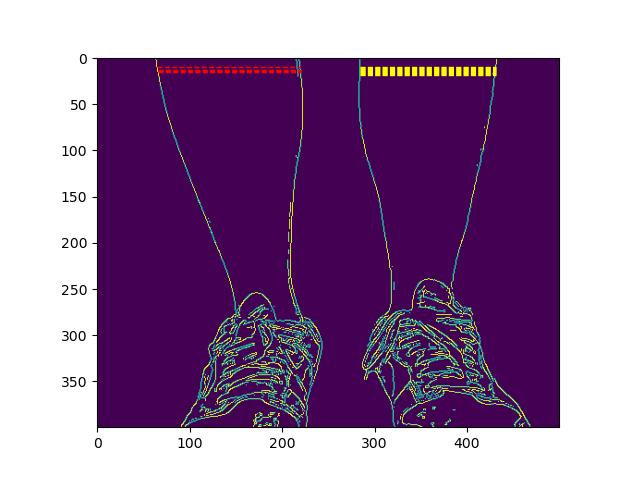
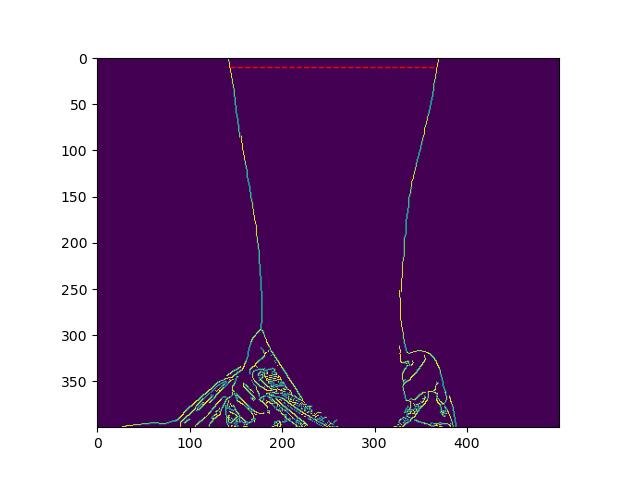
add side progress

diff --git a/app.py b/app.py
@@ -24,8 +24,8 @@ st.set_page_config(
 
 # sidebar
 with st.sidebar:
-    choose = option_menu("Calf Program", ["Leg Image Processing", "Regression Model", "Guide"],
-                         icons=['person-circle', 'cpu', 'paperclip'],
+    choose = option_menu("Calf Program", ["Board Pixel CSV file", "Leg Image Processing", "Regression Model", "Guide"],
+                         icons=['border','person-circle', 'cpu', 'paperclip'],
                          menu_icon="app-indicator", default_index=0,
                          styles={
         "container": {"padding": "5!important", "background-color": "#fafafa"},
@@ -35,15 +35,34 @@ with st.sidebar:
     }
     )
 
+# global variable
+test = 0
+
+# Board Pixel CSV file
+if choose == "Board Pixel CSV file":
+    st.title('Board Pixel CSV file') 
+    
+    uploaded_csv = st.file_uploader("Choose CSV file : ", accept_multiple_files=True)
+    if uploaded_csv :
+        df = pd.read_csv(uploaded_csv)
+    else :
+        st.caption('csv file sample')
+        df = pd.read_csv('board_pixel - front.csv')
+    st.dataframe(df)
+    
+    # image_function.pixel_xy('temp_img/001_f.jpg')
+
 # Leg Image Processing
 if choose == "Leg Image Processing":
     st.title('Leg Image Processing') 
     st.caption('이미지를 앞면, (피사체 기준) 오른쪽 다리, (피사체 기준) 왼쪽 다리 순으로 넣어주세요.')
 
     uploaded_files = st.file_uploader("한 명에 대한 다리 이미지를 넣어주세요.", accept_multiple_files=True)
+    
     col1, col2, col3 = st.columns(3)
     real_image_list = []
     remove_image_list = []
+    df_list = [] 
 
     for uploaded_file in uploaded_files:
         st.write("filename:", uploaded_file.name)
@@ -65,62 +84,107 @@ if choose == "Leg Image Processing":
         remove_image_list.append(remove_image)
         
     # read board pixel front 
-    df = pd.read_csv('./board_pixel - front.csv') 
+    df_front = pd.read_csv('./board_pixel - front.csv') 
+    df_right = pd.read_csv('./board_pixel - leftside.csv') ########################### rightside로 수정해야함
+    df_left = pd.read_csv('./board_pixel - leftside.csv') 
+    df_list = [df_front, df_right, df_left]
 
     # 이미지가 들어오면 진행 
     if remove_image_list:
         # dst is resize as board
-        resize_img, dst, point = image_function.resize(np.array(remove_image_list[0]), df) 
-
+        resize_img, dst0, point = image_function.resize_front(np.array(remove_image_list[0]), df_list[0])
+        resize_img, dst1, point = image_function.resize_leftside(np.array(remove_image_list[1]), df_list[1]) # resize_rightside로 수정할것
+        resize_img, dst2, point = image_function.resize_leftside(np.array(remove_image_list[2]), df_list[2])
         # contour_image(numpy.ndarray)
-        contour_img = image_function.leg_contour(dst)
-        temp_path = '/home/ksbds44/workspace/calf/temp_img/' + uploaded_file.name
-        cv2.imwrite(temp_path, contour_img) # test image 
+        contour_img0 = image_function.leg_contour(dst0)
+        contour_img1 = image_function.leg_contour(dst1)
+        contour_img2 = image_function.leg_contour(dst2)
+        
+        temp_path = 'temp_img/' + uploaded_file.name
+        cv2.imwrite(temp_path, contour_img0) # test image 
+        cv2.imwrite(temp_path, contour_img1) # test image 
+        cv2.imwrite(temp_path, contour_img2) # test image 
 
-        # make_thick_csv
+        # make_thick_csv (front)
+        thick_resultFR, thick_resultFL = image_function.make_thick_csv()
+        # make_thick_csv (side)
         thick_resultR, thick_resultL = image_function.make_thick_csv()
 
-        # find thick part
-        thick_resultR, thick_resultL = thick.find_thick_part(uploaded_file.name, contour_img, thick_resultR, thick_resultL)
-        thick_result_merge = pd.merge(thick_resultR, thick_resultL)
-        # print final dataframe
-        st.dataframe(thick_result_merge.iloc[0]) # 확인용 (결과 한줄만 필요)
+        # find thick part (front)
+        thick_resultFR, thick_resultFL = thick.find_thick_part_front(uploaded_file.name, contour_img0, thick_resultFR, thick_resultFL)
+        thick_result_merge = pd.merge(thick_resultFR, thick_resultFL)
 
+        # find thick part (옆면)
+        thick_resultR = thick.find_thick_part_side(uploaded_file.name, contour_img1, thick_resultR)
+        thick_resultL = thick.find_thick_part_side(uploaded_file.name, contour_img2, thick_resultL)
+        
+        # print final dataframe
+        # st.dataframe(thick_result_merge.iloc[0]) # 확인용 (결과 한줄만 필요)
+
+        
         # 모든 데이터프레임을 합쳐서 저장할 것 필요 
         thick_final_result = image_function.make_final_csv()
+        new_row_left = {'id':thick_result_merge['id'].iloc[0], 
+                   'front_thick_width':thick_result_merge['left_thick_width'].iloc[0],
+                   'side_thick_width':thick_resultL['side_thick_width'].iloc[0], # 옆면 csv 파일에 따른 결과에 맞춰 수정 필요 
+                   'real_lr': 0}
+        new_row_right = {'id':thick_result_merge['id'].iloc[0], 
+                   'front_thick_width':thick_result_merge['right_thick_width'].iloc[0],
+                   'side_thick_width':thick_resultR['side_thick_width'].iloc[0], # 옆면 csv 파일에 따른 결과에 맞춰 수정 필요 
+                   'real_lr': 1}
+        thick_final_result = thick_final_result.append(new_row_left, ignore_index=True)
+        thick_final_result = thick_final_result.append(new_row_right, ignore_index=True)
         
+        st.dataframe(thick_final_result) # model에 들어갈 최종 데이터프레임
+
     # -----------------------------------------------------------------------
     # 정렬하여 표시
     # -----------------------------------------------------------------------
-    with col1:
-        st.subheader("Front Leg")
-        st.caption("Original Front Leg")
-        st.image(real_image_list[0])
-        st.caption("Remove Background Front Leg")
-        st.image(remove_image_list[0])
-        st.caption("Resize Front Leg")
-        st.image(dst)
-        st.caption("Contour Front Leg")
-        st.image(contour_img)
-                
-    with col2:
-        st.subheader("Right Leg")
-        st.caption("Original Right Leg")
-        st.image(real_image_list[1])
-        st.caption("Remove Background Front Leg")
-        st.image(remove_image_list[1])
-
-    with col3:
-        st.subheader("Left Leg")
-        st.caption("Original Left Leg")
-        st.image(real_image_list[2])
-        st.caption("Remove Background Front Leg")
-        st.image(remove_image_list[2])
-
+    if real_image_list :
+        with col1:
+            st.subheader("Front Leg")
+            st.caption("Original Front Leg")
+            st.image(real_image_list[0])
+            st.caption("Remove Background Front Leg")
+            st.image(remove_image_list[0])
+            st.caption("Resize Front Leg")
+            st.image(dst0)
+            st.caption("Contour Front Leg")
+            st.image(contour_img0)
+                    
+        with col2:
+            st.subheader("Right Leg")
+            st.caption("Original Right Leg")
+            st.image(real_image_list[1])
+            st.caption("Remove Background Front Leg")
+            st.image(remove_image_list[1])
+            st.caption("Resize Right Leg")
+            st.image(dst1)
+            st.caption("Contour Right Leg")
+            st.image(contour_img1)
+            
+        with col3:
+            st.subheader("Left Leg")
+            st.caption("Original Left Leg")
+            st.image(real_image_list[2])
+            st.caption("Remove Background Front Leg")
+            st.image(remove_image_list[2])
+            st.caption("Resize Right Leg")
+            st.image(dst2)
+            st.caption("Contour Right Leg")
+            st.image(contour_img2)
+    else : 
+        with col1:
+            st.subheader("Front Leg")
+        with col2:
+            st.subheader("Right Leg")
+        with col3:
+            st.subheader("Left Leg")
+            
 # Leg Image Processing
 if choose == "Regression Model":
     st.title('Regression Model')
-    
+    st.text('{}' .format(test))
 
 # Guide
 if choose == "Guide":
@@ -131,11 +195,16 @@ if choose == "Guide":
     Machine Learning and Data Science projects.
     **👈 Select a demo from the sidebar** to see some examples
     of what Streamlit can do!
-    ### Want to learn more?
-    - test
-    - test
-    - test 
-    ###### [Image Processing and Intelligent Systems Laboratory](https://www.ipis.cau.ac.kr/%ED%99%88)
+    
+    ### 사진 촬영 유의사항
+    - 수평을 맞춰 촬영
+    
+    ### 필요한 데이터
+    - 한 명에 대한 종아리 이미지 **[ 앞면, 옆면(오른쪽), 옆면(왼쪽) ]**
+    - 폼보드 각 모서리의 픽셀값
+    
+    
+    ##### [Image Processing and Intelligent Systems Laboratory](https://www.ipis.cau.ac.kr/%ED%99%88)
     (Chung-Ang University, Seoul 06974, Korea)
     - Su Bin Kwon
     - Hae Jun Cho

diff --git a/find_thick_part.py b/find_thick_part.py
@@ -6,7 +6,7 @@ from PIL import Image
 
 st.set_option('deprecation.showPyplotGlobalUse', False)
 
-def find_thick_part(f, res1, thick_resultR, thick_resultL):
+def find_thick_part_front(f, res1, thick_resultR, thick_resultL):
   # 값들이 오름차순으로 들어감
   height_pos_right = []
   width_pos_right = []
@@ -130,7 +130,86 @@ def find_thick_part(f, res1, thick_resultR, thick_resultL):
   final_path = '/home/ksbds44/workspace/calf/final_img/' + f
   plt.imshow(res1)
   plt.savefig(final_path)
+  plt.figure()
   
-  # print final image   
+  # print final image 
+  st.subheader("Final result")  
   st.image(final_path)
   return thick_resultR, thick_resultL
+
+def find_thick_part_side(f, res1, thick_resultR): # 옆면 추출에 대한 수정이 필요함  
+  # 값들이 오름차순으로 들어감
+  [hei, wid] = res1.shape
+  
+  height_pos = []
+  width_pos = []
+  
+  # right leg
+  for i in range(250): #height
+    for j in range(500): #width
+      if res1[i, j]!=0: # 종아리 경계선 
+        if i>=10:
+          #print(i, j)
+          height_pos.append(i)
+          width_pos.append(j)
+
+  # --------------------------------------
+  # final height, width right
+  # --------------------------------------
+  temp_h=0 # start height 저장
+  temp_w=0 # start width 저장
+
+  max_wr=[]
+  min_wr=[] # 각 height에서 min, max width값 저장
+
+  final_hr = []
+  final_wr =[] # 각 height에서 가장 긴 width값 저장
+
+  for i in range(len(height_pos)):
+    start = i # height가 저장되어있는 Index를 입력받아 
+    end = i-1
+    if height_pos[start-1] != height_pos[end-1]:
+      max_wr.append(width_pos[end-1])
+      min_wr.append(temp_w)
+      final_hr.append(height_pos[end-1])
+      final_wr.append(width_pos[end-1]-temp_w)
+      
+      temp_h = height_pos[start-1]
+      temp_w = width_pos[start-1]
+      #print()
+
+  # final_h, final_w index 0에 들어가있는 허수 제거
+  final_hr[0]=0
+  final_wr[0]=0
+
+  # --------------------------------------
+  # max width 값을 구성하는 height, min_width, max_width 확인하고 그리기 
+  # --------------------------------------
+      
+  # right 
+  for i in range(len(final_wr)):
+    if final_wr[i] == max(final_wr):
+      plt.hlines(final_hr[i], min_wr[i], max_wr[i], color='red', linestyle='--', linewidth=1)
+
+      # dataframe화 (오른쪽 다리)
+      right_data = {
+          'id' : [f[:3]],
+          'side_height' : [final_hr[i]],
+          'side_min_width' : [min_wr[i]],
+          'side_max_width' : [max_wr[i]],
+          'side_thick_width' : [final_wr[i]]
+      }
+      right_df = pd.DataFrame(right_data)
+      thick_resultR = pd.concat([thick_resultR, right_df])
+
+  # plt image save test
+  final_path = '/home/ksbds44/workspace/calf/final_img/' + f
+  plt.imshow(res1)
+  plt.savefig(final_path)
+  plt.figure()
+
+  
+  # print final image 
+  st.subheader("Final result")  
+  st.image(final_path)
+  return thick_resultR

diff --git a/image_function.py b/image_function.py
@@ -5,7 +5,13 @@ import math
 import numpy as np
 import pandas as pd
 
-def resize(img, df):
+def pixel_xy(img): # test test test test test test 
+  img = cv2.imread(img)
+  x_pos, y_pos, width, height = cv2.selectROI("location", img, False)
+  print(x_pos, y_pos, width, height)
+  cv2.destroyAllWindows()
+  
+def resize_front(img, df):
   # 왼위, 왼아래, 오위, 오아래
     for idx in range(len(df)):
         lux = df['정면_왼위_x'][idx]
@@ -28,6 +34,30 @@ def resize(img, df):
 
     dst = cv2.warpPerspective(img, M, (500,400)) # 가로, 세로
     return img, dst, point
+  
+def resize_leftside(img, df):
+  # 왼위, 왼아래, 오위, 오아래
+    for idx in range(len(df)):
+        lux = df['왼옆면_왼위_x'][idx]
+        luy = df['왼옆면_왼위_y'][idx]
+        ldx = df['왼옆면_왼아래_x'][idx]
+        ldy = df['왼옆면_왼아래_y'][idx]
+        rux = df['왼옆면_오위_x'][idx]
+        ruy = df['왼옆면_오위_y'][idx]
+        rdx = df['왼옆면_오아래_x'][idx]
+        rdy = df['왼옆면_오아래_y'][idx]
+    
+    a = math.atan((lux-ldx)/(ldy-luy))
+    #print(a)
+    point =[[lux, luy], [ldx, ldy], [rux, ruy], [rdx, rdy]]
+
+    pts1 = np.float32(point)
+    pts2 = np.float32([[0,0],[0,400],[500,0],[500,400]]) # resize
+
+    M = cv2.getPerspectiveTransform(pts1,pts2) # perspective transformation
+
+    dst = cv2.warpPerspective(img, M, (500,400)) # 가로, 세로
+    return img, dst, point  
 
 def leg_contour(dst):
   temp = cv2.fastNlMeansDenoisingColored(dst,None,15, 15, 5, 9) # 털(잡음) 제거
@@ -42,6 +72,6 @@ def make_thick_csv():
   return thick_resultR, thick_resultL
 
 def make_final_csv(): # real_lr : 1(오른쪽), 0(왼쪽)
-  final_df = pd.DataFrame(columns=['id', 'front_thick_width','side_thick_width', 'real_lr', 'real_width'])
+  final_df = pd.DataFrame(columns=['id', 'front_thick_width','side_thick_width', 'real_lr'])
   
   return final_df
